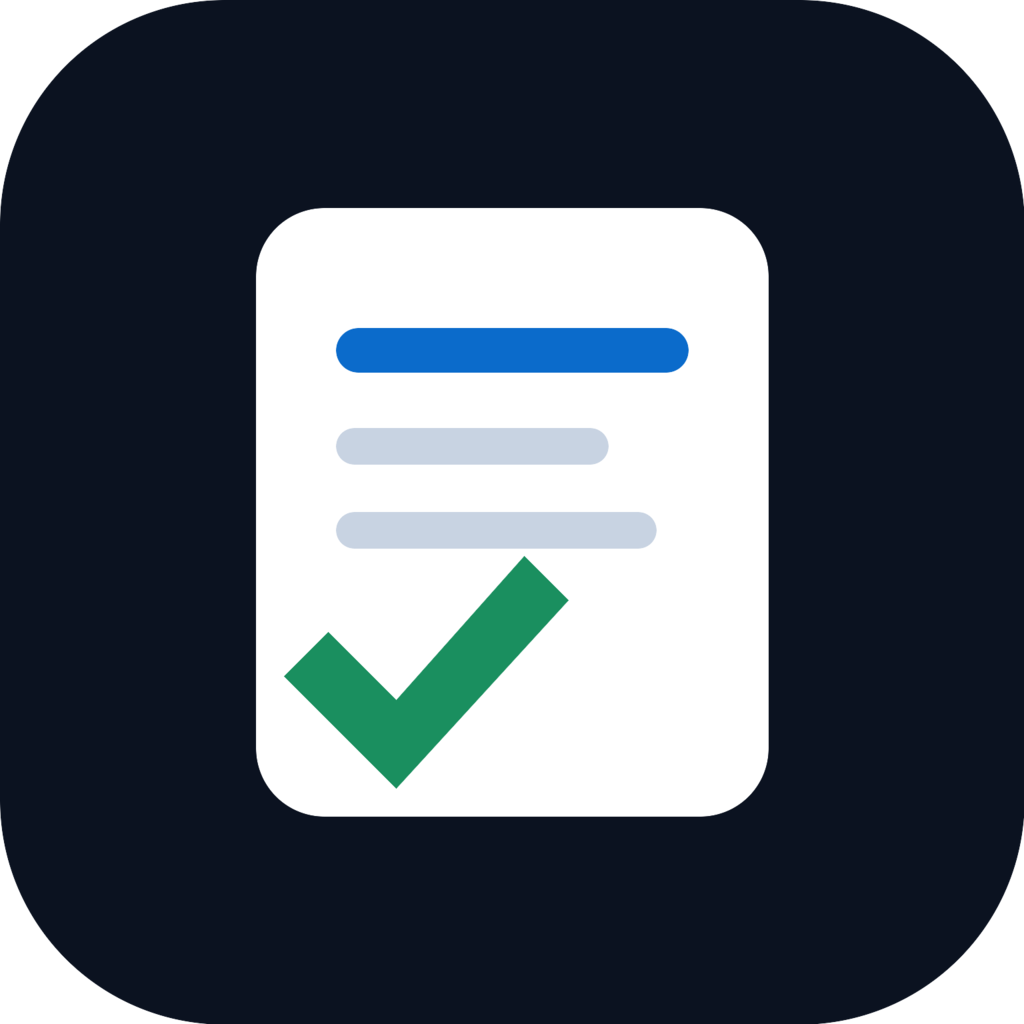
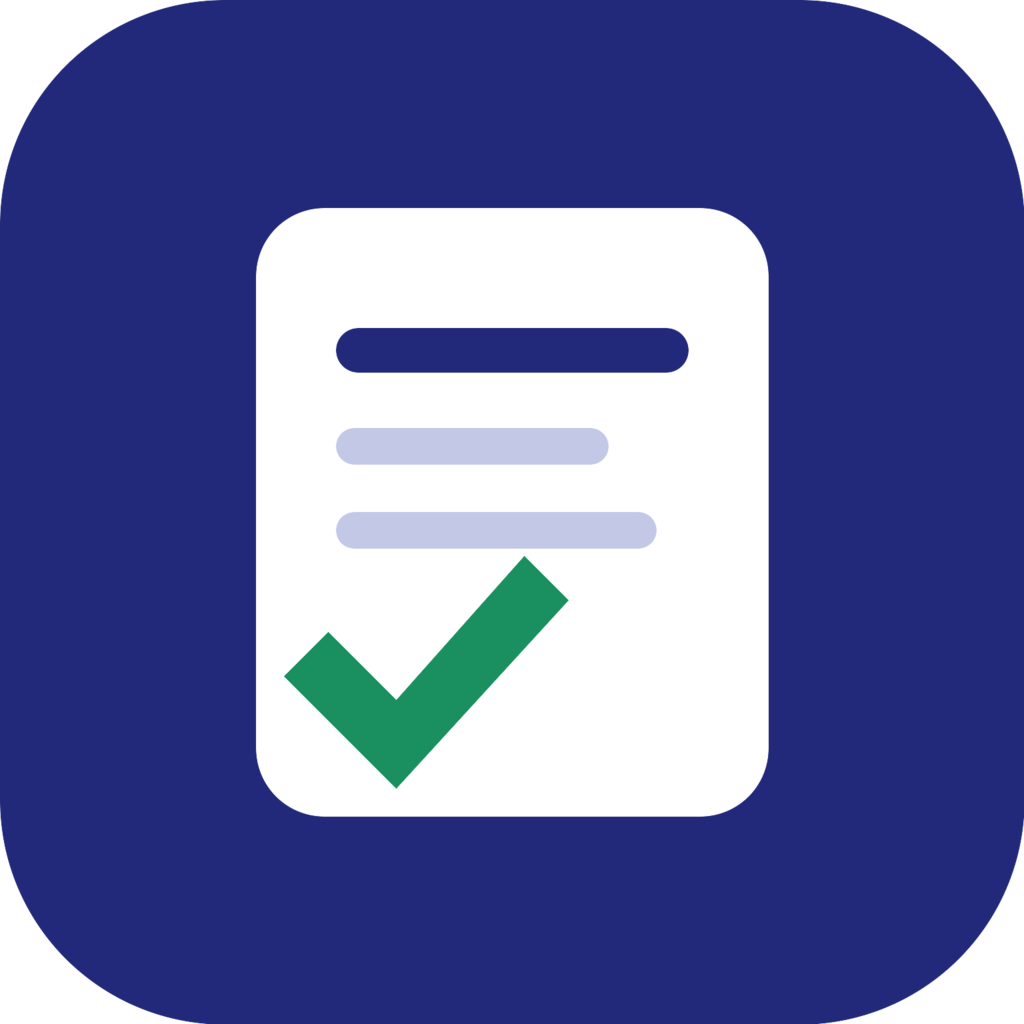
Adopt St Patrick's Blue as the brand colour
#23297a is the light-mode accent, the manifest theme colour and the icon tile. The dark theme cannot use it — it disappears on a dark page — so it uses a lightened tint of the same hue, with a matching --on-accent so button text stays legible: white on #8f9bf0 would have been 2.6:1, the new pair is 7.1:1.

Contrast was measured rather than eyeballed: light fg 15.4:1, dim 5.9:1, accent 11.7:1, white-on-accent 12.6:1; dark fg 15.4:1, dim 7.4:1, accent 7.3:1. Body text, muted text, links and the primary button all clear AA.

The icon is regenerated from icons/icon.svg by tools/make-icons.sh, which is why the PNGs move with the SVG rather than being edited by hand.

Assisted-by: GitHub Copilot (DeepSeek V4 Flash)

diff --git a/styles.css b/styles.css
@@ -1,17 +1,19 @@
 :root {
   color-scheme: light dark;
 
-  --bg: #f7f8fa;
+  /* St Patrick's Blue (#23297a) is the brand colour and the light accent. */
+  --bg: #f5f6fb;
   --panel: #ffffff;
-  --line: #e2e6ec;
-  --fg: #16202e;
-  --dim: #5f6d7f;
-  --accent: #0b6bcb;
-  --accent-soft: #e8f1fc;
-  --ok: #1a8f5f;
-  --warn: #a86200;
-  --err: #b42323;
-  --code-bg: #f1f4f8;
+  --line: #dde1ef;
+  --fg: #191c38;
+  --dim: #565d85;
+  --accent: #23297a;
+  --on-accent: #ffffff;
+  --accent-soft: #e9ebf9;
+  --ok: #1a7f56;
+  --warn: #94570a;
+  --err: #ad2020;
+  --code-bg: #f0f2fa;
 
   --radius: 12px;
   --measure: 44rem;
@@ -21,17 +23,20 @@
 
 @media (prefers-color-scheme: dark) {
   :root {
-    --bg: #0b1220;
-    --panel: #111a2b;
-    --line: #1e2a41;
-    --fg: #e7edf7;
-    --dim: #8b9bb4;
-    --accent: #6fb0ff;
-    --accent-soft: #16243b;
+    /* The brand blue is too dark to read on a dark page, so the dark accent
+       is a lightened tint of the same hue. */
+    --bg: #0d1026;
+    --panel: #151a3a;
+    --line: #262d59;
+    --fg: #e6e8f7;
+    --dim: #98a0cc;
+    --accent: #8f9bf0;
+    --on-accent: #0d1026;
+    --accent-soft: #1b2148;
     --ok: #3ddc97;
     --warn: #ffb020;
     --err: #ff7a7a;
-    --code-bg: #0e1727;
+    --code-bg: #111530;
   }
 }
 
@@ -191,7 +196,7 @@ main {
   border: 0;
   border-radius: 10px;
   background: var(--accent);
-  color: #fff;
+  color: var(--on-accent);
   font: inherit;
   font-weight: 600;
   cursor: pointer;

diff --git a/index.html b/index.html
@@ -4,8 +4,8 @@
 <meta charset="utf-8">
 <meta name="viewport" content="width=device-width, initial-scale=1, viewport-fit=cover">
 <meta name="color-scheme" content="light dark">
-<meta name="theme-color" media="(prefers-color-scheme: light)" content="#f7f8fa">
-<meta name="theme-color" media="(prefers-color-scheme: dark)" content="#0b1220">
+<meta name="theme-color" media="(prefers-color-scheme: light)" content="#23297a">
+<meta name="theme-color" media="(prefers-color-scheme: dark)" content="#0d1026">
 <meta name="description" content="Markdown notes in your own Dropbox.">
 <meta name="mobile-web-app-capable" content="yes">
 <meta name="apple-mobile-web-app-capable" content="yes">

diff --git a/AGENTS.md b/AGENTS.md
@@ -285,8 +285,13 @@ Rules:
   a list or bold text. Any affordance added must stay optional.
 - **Nothing renders unsanitised.** `renderMarkdown` is the only path to
   `innerHTML`; a note can come from someone else's Dropbox.
-- **Colours live in `:root`.** Keep the palette in one place so the CSS, the
-  manifest `theme_color` and the meta theme colours cannot disagree.
+- **Colours live in `:root`, built on St Patrick's Blue.** `#23297a`
+  ([encycolorpedia](https://encycolorpedia.com/23297a)) is the brand colour and
+  the light-mode accent; dark mode uses a lighter tint of the same hue because
+  the brand blue is unreadable on a dark page, and pairs it with `--on-accent`
+  so button text stays legible. Keep the palette in one place so the CSS, the
+  manifest `theme_color`, the meta theme colours and `icons/icon.svg` cannot
+  disagree.
 - **Verify before claiming done.** Run the tests and load the page — a static
   site has no compiler to catch a broken module path, and the deployed
   sub-path is where relative URLs go wrong.
